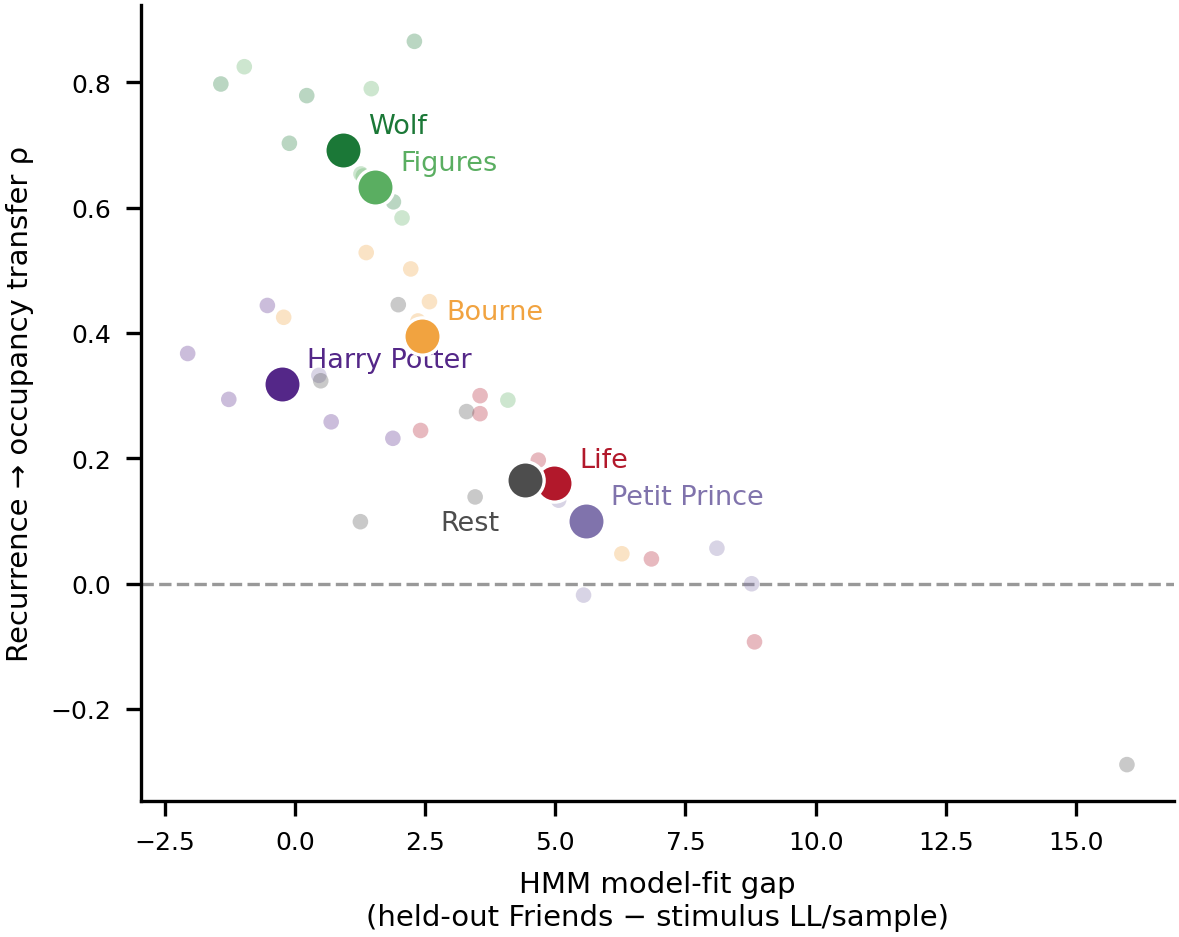
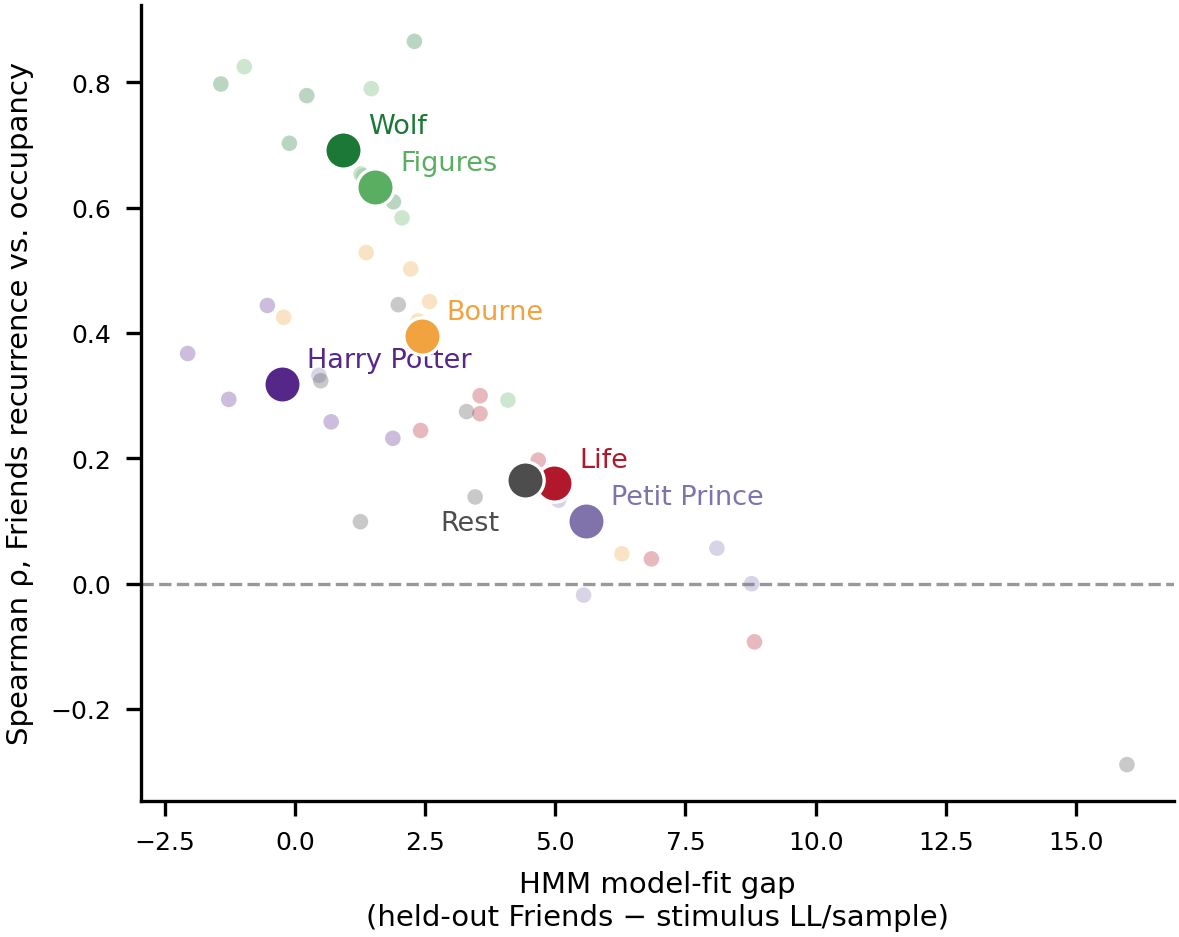
Figure 4B: observed correlations against their phase-randomized nulls (Movie10, Harry Potter, Petit Prince); relabel Figure S8B (#47)
Panel B of Figure 4 now draws, for Movie10 (six participants), Harry Potter and Le Petit Prince (five each), each participant's 10,000 phase-randomized surrogate correlations as a ridge on one shared axis, with the observed correlation between Friends recurrence and mean occupancy as a tick and the row's Δρ and empirical p beside it. The key is a separate file. Before drawing, the panel checks each null summary against the cross-stimulus summary, the draw files against their summaries, the missing-participant records and the row counts, and that every value lies in the plotted range. The previous Panel B (raw correlation by film, Harry Potter and Petit Prince, against zero) is removed; Figure S8B plots each film's correlation against the HMM fit gap.

Figure S8B's y-axis now reads 'Spearman ρ, Friends recurrence vs. occupancy', and its PNG is re-exported. The Figure S13 and Table S2 text no longer says Harry Potter and Petit Prince have too few runs for the null; Table S2 gives where each of their observed correlations sits against its null, by z. The README's Figure 4 row lists the inputs.

Changed region(s): [[0.0, 0.0619, 0.0305, 0.8047]]

diff --git a/script/fig_F4_cross_stimulus_transfer.py b/script/fig_F4_cross_stimulus_transfer.py
@@ -2,12 +2,17 @@
 
 One marimo notebook per figure (see `2026-05-24_manuscript_version_scope.md`).
 Panels are per-cell, saved as separate .png + .svg mini-figures for manual
-assembly. No on-figure panel labels, no titles, no subject-ID tick labels.
+assembly. No on-figure panel labels, no titles, no subject-ID tick labels
+(subjects are named by in-panel tags, as in panels A and B).
 
-R5 claim (reframed 2026-06-12): a state's recurrence rank in Friends predicts
-out-of-stimulus occupancy most clearly during audiovisual film (Movie10), with
-weaker and more variable transfer for reduced-modality reading (Harry Potter)
-and listening (Petit Prince).
+R5 claim: a state's recurrence rank in Friends predicts its mean occupancy
+during audiovisual film (Movie10) in every participant, above a phase-randomized
+null that preserves each PCA component's power spectrum and variance and the
+cross-component covariance. The null reproduces most of the raw correlation, so
+the claim is the margin above the null, not the raw ρ. With the same null on
+Harry Potter (7 runs) and Petit Prince (16-18 runs), the observed ρ sits above
+its null in one and two participants, near or at it in most others, and below it
+in two Harry Potter participants (z -2.41 and -3.22).
 
 Rest placement (decided 2026-08-17): supplementary ONLY — rest appears in
 fig_S08, not in this figure. Rationale: rest transfer is descriptive only (no
@@ -22,20 +27,27 @@ The within-Movie10 spread is reported descriptively and not attributed to
 content. The presence and fit diagnostics live in the supplementary
 cross-stimulus validity figure.
 
-Panel plan (chart families distinct within the figure). Filenames carry the
-panel letter; the user arranges the composite.
+Panel plan (chart families distinct within the figure, and B's family is used
+in no other main figure: point-based 1D is already in Figures 1 and 3). Filenames
+carry the panel letter; the user arranges the composite.
 
 | Panel | Content | Chart family | Source |
 |---|---|---|---|
-| A | Per-subject recurrence→FO scatter, 2×3 small multiples (Movie10; x=Friends recurrence, y=mean M10 FO; subject = marker shape + OLS line + per-subject ρ). Dots colored by R2 taxonomy category (Fig 2 colors). Movie10 = the strongest audiovisual transfer case in B. | scatter (small multiples) | m10_04 fractional_occupancy.pkl + 05a recurrence + 05e_a4 state_flags |
-| B | Transfer-ρ by condition (single strip; all active states). x = 4 Movie10 films + Harry Potter + Petit Prince; per-subject markers (shape = subject), dark cohort-mean line over films + ticks for HP/PP. Transfer clearest for audiovisual film, weaker/variable for reduced-modality stimuli; within-film spread descriptive (fit-confounded), NOT a content axis. Rest is supplementary-only (fig_S08). | point-1D strip | m10 A2_per_type + hp/pp A1 |
+| A | Per-subject recurrence→FO scatter, 2×3 small multiples (Movie10; x=Friends recurrence, y=mean M10 FO; subject = marker shape + OLS line + per-subject ρ). Dots colored by R2 taxonomy category (Fig 2 colors). | scatter (small multiples) | m10_04 fractional_occupancy.pkl + 05a recurrence + 05e_a4 state_flags |
+| B | Observed vs phase-randomized null, by stimulus (Movie10, Harry Potter, Petit Prince; one ridge per subject, all active states). Grey ridge = histogram of 10,000 null draws on shared bins, each scaled to the same height; dark tick = observed ρ (for Movie10, the value panel A annotates); Δρ (observed minus null mean) annotated per row. Wide, same width as A. | distribution (ridge) | m10/hp/pp A1 + sm_rel_r5_phase_null summaries + null_draws.npy |
 
-A `fig4_taxonomy_legend` file gives the 5-category color key for Panel A.
+A `fig4_taxonomy_legend` file gives the 5-category color key for Panel A, and
+`fig4_B_legend` the observed / null key for Panel B.
+
+Panel B keeps the stimuli of the raw-ρ-by-condition strip it replaced, with
+each set against its own null in place of zero. The four Movie10 films are
+pooled, since the null is computed over all 61 Movie10 runs; fig_S08 B plots
+the per-film ρ against the HMM fit gap.
 
 Modalities (verified against Methods draft): Movie10 = audiovisual films; Harry
 Potter = word-by-word RSVP reading (visual-only, no audio); Petit Prince =
-audiobook (audio-only, no visual). sub-04 has no HP/PP data, so HP/PP markers are
-absent for sub-04 in B.
+audiobook (audio-only, no visual). sub-04 has no HP/PP data, so the HP and PP
+groups in B have five rows.
 
 The presence donut grid and the validity diagnostics (PCA transfer R² uniform
 ~0.95; HMM LL gap uneven, ρ↔fit relationship with the HP outlier) move to the
@@ -47,9 +59,15 @@ Source-truth audit (reproduced from raw arrays):
     Spearman p<0.05), HP 0.232–0.444 (2/5), PP −0.018–0.332 (1/5);
     sub-04 has no HP/PP data. These p-values are descriptive per-subject
     flags, not cohort-level or multiplicity-corrected inference.
-  * Per-condition mean ρ: wolf 0.69, figures 0.63, bourne 0.40, life 0.16,
-    HP 0.32, PP 0.10. Cross-modality ordering (HP > Life > PP) contradicts a
-    content account; within-M10 spread tracks LL-fit gap (0.92/1.54/2.43/4.98).
+  * Per-condition mean ρ (fig_S08 B): wolf 0.69, figures 0.63, bourne 0.40,
+    life 0.16, HP 0.32, PP 0.10. Cross-modality ordering (HP > Life > PP)
+    contradicts a content account; within-M10 spread tracks LL-fit gap
+    (0.92/1.54/2.43/4.98).
+  * Panel B (2026-10-28): each null summary's observed ρ equals the
+    cross-stimulus summary's A1 ρ for all 16 subject x stimulus cells; Δρ
+    M10 +0.07 to +0.22 (z 5.97 to 15.62, every p at the 10,000-draw floor),
+    HP -0.08 to +0.09 (z -3.22 to +2.77), PP +0.003 to +0.19 (z +0.11 to
+    +9.08; sub-05's +9.08 is against a null below zero).
 
 Run:
     marimo edit script/fig_F4_cross_stimulus_transfer.py
@@ -120,6 +138,14 @@ def config(Path, os):
     # defines Friends-active states.
     PRESENCE_FO = 0.02
 
+    # Phase-randomized nulls (sm_rel_r5_phase_null, supplements branch): Movie10
+    # at the top level, the other stimuli in a subfolder named for each.
+    NULL_ROOT = SCRATCH_DIR / "output" / "sm_rel_r5_phase_null"
+    NULL_SUBDIR = {"m10": "", "hp": "harrypotter", "pp": "petitprince"}
+
+    def null_dir(stim, sub):
+        return NULL_ROOT / NULL_SUBDIR[stim] / PARCELLATION / sub / VT
+
     def xstim_dir(stim):
         return SCRATCH_DIR / "output" / f"{stim}_05_cross_validation" / PARCELLATION
 
@@ -129,7 +155,7 @@ def config(Path, os):
     return (
         SCRATCH_DIR, PARCELLATION, VT, SUBJECTS, EXEMPLAR, STIMULI,
         RECUR_DIR, FLAGS_DIR, M10_DEC_DIR, HP_DEC_DIR, PP_DEC_DIR,
-        PRESENCE_FO, xstim_dir, OUT_F4,
+        PRESENCE_FO, null_dir, xstim_dir, OUT_F4,
     )
 
 
@@ -243,18 +269,17 @@ def panel_A_per_subject_scatter(
     One subplot per subject (shared x and y axes for comparability): x = Friends
     recurrence score (05a), y = mean Movie10 fractional occupancy across runs
     (m10_04), one point per Friends-active state. Each subject keeps its own
-    marker shape (SUBJECT_MARKERS - consistent with the transfer-ρ panel) and a
+    marker shape (SUBJECT_MARKERS, as in Figures 1 and 3) and a
     red OLS guide line; the per-subject Spearman ρ (asserted against the summary
     JSON) is annotated in-panel without a significance marker.
 
-    Dot fill = R2 taxonomy category (same colors as Figure 2), showing that the
-    Movie10 is the strongest audiovisual transfer case quantified in panel B;
-    the repertoire-presence view and the validity diagnostics live in the
-    supplementary cross-stimulus figure.
+    Dot fill = R2 taxonomy category (same colors as Figure 2). Panel B sets
+    each ρ against its phase-randomized null; the repertoire-presence view and
+    the validity diagnostics live in the supplementary cross-stimulus figure.
 
     Recurrence and occupancy are both within-subject quantities, so each panel's
     ρ is the correct per-subject statistic; no pooled correlation is drawn.
-    Width matches the transfer-ρ panel so the two stack as one figure column.
+    Width matches panel B so the two stack as one figure column.
     """
     _fig, _axes = plt.subplots(2, 3, figsize=(6.7, 4.25), sharex=True, sharey=True)
     _axes = _axes.ravel()
@@ -306,97 +331,149 @@ def panel_A_per_subject_scatter(
 
 
 @app.cell
-def panel_B_transfer_by_condition(
-    SUBJECTS, summaries, OUT_F4, np, plt,
-    SUBJECT_NEUTRAL, SUBJECT_MARKERS,
+def panel_B_observed_vs_null(
+    SUBJECTS, STIMULI, null_dir, summaries, OUT_F4, json, np, plt, SUBJECT_NEUTRAL,
 ):
-    """Panel B - recurrence→occupancy transfer ρ by condition, grouped by stimulus type.
+    """Panel B - observed ρ against its phase-randomized null, by stimulus.
 
-    A frozen Friends-trained state model transfers most strongly to audiovisual
-    film (Movie10) and weakly / variably to reduced-modality stimuli -
-    visual-only word-by-word reading (Harry Potter) and audio-only listening
-    (Petit Prince).
+    Three groups of rows on one shared ρ axis: Movie10 (6 subjects), Harry
+    Potter and Petit Prince (5 each; sub-04 has no data for either), subjects in
+    order within a group. Each ridge is the histogram of the subject's 10,000
+    phase-randomized surrogate ρ values for that stimulus on one shared set of
+    bins, scaled so every ridge has the same peak height: only the location and
+    spread of the null carry information, as in the supplementary
+    null-distribution figure. The dark tick is the observed ρ (for Movie10, the
+    value panel A annotates), and each row is tagged with its subject,
+    Δρ = observed - null mean (three decimals, so near-zero values stay
+    readable) and the empirical p, (k + 1) / (10,000 + 1) for k null draws at or
+    above the observed ρ (its floor 1/10,001 is shown as p < 0.001). A dashed
+    line marks ρ = 0. For Petit Prince
+    sub-05 the null sits well below zero and the observed ρ near zero, so its
+    margin is not a positive correlation. Subject identity is carried by the row and its
+    tag, so the tick does not repeat it with a marker shape.
 
-    Conditions are grouped by stimulus type, not ordered as a content axis. The
-    spread across the four Movie10 films is shown descriptively; it co-varies
-    with HMM model fit - see the supplementary cross-stimulus validity figure -
-    so it is NOT attributed to narrative content. Note that the reduced-modality
-    conditions do not isolate narrative content because they also differ in
-    modality, timing, language, run structure, and model fit.
+    The null randomizes the phases of the stimulus's PC scores: each run gets one
+    random phase vector, shared across components. It keeps each component's
+    power spectrum and variance, the cross-component covariance, and the run
+    count and lengths, and destroys stimulus-locked timing and higher-order
+    temporal structure. Harry Potter has 7 runs per subject and Petit Prince
+    16-18, against 61 for Movie10.
 
-    Per-subject markers (shape = subject, as in panel A; single neutral color).
-    Cohort mean: dark line over the Movie10 films, dark ticks for HP and PP.
-    sub-04 lacks HP/PP, so only 5 markers appear in those groups.
-
-    Rest is supplementary-only (fig_S08; see the module docstring's placement
-    note): no surrogate null was run for rest, and raw ρ's covariance floor
-    means a Rest column would not read as a gradient endpoint.
+    Checks, per subject and stimulus: the null summary's observed ρ equals the
+    cross-stimulus summary's; the draw file holds the 10,000 draws the caption
+    states, with the summary's mean and 2.5/97.5 percentiles; a subject is
+    missing only where the cross-stimulus summary is missing too; and every draw
+    and observed value lies inside the plotted range.
     """
-    _films = [("wolf", "Wolf of\nWall St."),
-              ("figures", "Hidden\nFigures"),
-              ("bourne", "Bourne"),
-              ("life", "Life")]
-    _xlabels = [lab for _, lab in _films] + ["Harry\nPotter", "Petit\nPrince"]
-    _n_x = len(_xlabels)
-    _rng = np.random.default_rng(20260526)
-
-    def _cond_rho(_sub, _xi):
-        if _xi < len(_films):
-            return summaries["m10"][_sub]["A2_per_type"][_films[_xi][0]]["spearman_rho"]
-        _stim = "hp" if _xi == len(_films) else "pp"
-        _d = summaries[_stim][_sub]
-        return None if _d is None else _d["A1_recurrence_correlation"]["spearman_rho"]
-
-    _fig, _ax = plt.subplots(figsize=(6.7, 3.95))
-    _mean_color = "#333333"
-
-    # Dividers between the three stimulus-type groups (no causal continuum).
-    for _d in (len(_films) - 0.5, len(_films) + 0.5):
-        _ax.axvline(_d, color="#BBBBBB", lw=1.0, ls="--", zorder=1)
-
-    # Per-subject markers (neutral; subject = shape).
-    for _sub in SUBJECTS:
-        for _xi in range(_n_x):
-            _v = _cond_rho(_sub, _xi)
-            if _v is None:
+    _x_min, _x_max = -0.30, 0.88
+    _rows = []                                  # (stim label, sub, rho, null mean, draws)
+    for _stim, _label in STIMULI:
+        for _sub in SUBJECTS:
+            _dir = null_dir(_stim, _sub)
+            if summaries[_stim][_sub] is None:
+                _skip = _dir / "skipped.json"
+                assert _skip.exists() and json.loads(_skip.read_text()).get("skipped") is True, (
+                    f"{_stim} {_sub}: no cross-stimulus data, and no skip record")
+                assert not (_dir / "r5_phase_null_summary.json").exists(), (
+                    f"{_stim} {_sub}: a null summary but no cross-stimulus summary")
                 continue
-            _jit = _rng.uniform(-0.12, 0.12)
-            _ax.scatter(
-                _xi + _jit, _v, s=30, color=SUBJECT_NEUTRAL, alpha=0.55,
-                marker=SUBJECT_MARKERS[_sub], edgecolor="white",
-                linewidth=0.4, zorder=3,
+            with open(_dir / "r5_phase_null_summary.json") as _f:
+                _n = json.load(_f)
+            _draws = np.load(_dir / "null_draws.npy")
+            _rho = _n["observed"]["rho"]
+            _pub = summaries[_stim][_sub]["A1_recurrence_correlation"]["spearman_rho"]
+            assert abs(_rho - _pub) < 1e-3, (
+                f"{_stim} {_sub}: null-summary ρ {_rho:.4f} != cross-stimulus summary {_pub:.4f}"
             )
+            assert _draws.shape == (10000,) == (_n["null"]["n_draws"],), (
+                f"{_stim} {_sub}: {_draws.shape} draws, summary says {_n['null']['n_draws']}"
+            )
+            for _key, _val in (("mean", _draws.mean()),
+                               ("pct2.5", np.percentile(_draws, 2.5)),
+                               ("pct97.5", np.percentile(_draws, 97.5))):
+                assert abs(_val - _n["null"][_key]) < 1e-9, (
+                    f"{_stim} {_sub}: draws {_key} {_val:.6f} != summary {_n['null'][_key]:.6f}"
+                )
+            _lo, _hi = min(_draws.min(), _rho), max(_draws.max(), _rho)
+            assert _x_min <= _lo and _hi <= _x_max, (
+                f"{_stim} {_sub}: values [{_lo:.3f}, {_hi:.3f}] outside the plotted range"
+            )
+            _rows.append((_label, _sub, _rho, _n["null"]["mean"], _draws,
+                          _n["p_empirical"]))
+            print(f"  {_label:12s} {_sub}: observed {_rho:+.3f}  null mean "
+                  f"{_n['null']['mean']:+.3f} [{_n['null']['pct2.5']:+.3f}, "
+                  f"{_n['null']['pct97.5']:+.3f}]  Δρ {_rho - _n['null']['mean']:+.3f}  "
+                  f"p {_n['p_empirical']:.4f}")
 
-    # Cohort means: dark line over M10 films, dark ticks for HP/PP
-    _m10_means = [float(np.mean([_cond_rho(_s, _xi) for _s in SUBJECTS]))
-                  for _xi in range(len(_films))]
-    _ax.plot(range(len(_films)), _m10_means, color=_mean_color, lw=2.0, zorder=5,
-             label="Cohort mean")
-    for _xi in (len(_films), len(_films) + 1):
-        _vals = [_cond_rho(_s, _xi) for _s in SUBJECTS if _cond_rho(_s, _xi) is not None]
-        _mean = float(np.mean(_vals))
-        _ax.plot([_xi - 0.22, _xi + 0.22], [_mean, _mean], color=_mean_color,
-                 lw=2.0, zorder=5)
-        print(f"  cond {_xlabels[_xi].split(chr(10))[0]}: mean ρ={_mean:.3f} (n={len(_vals)})")
-    for _xi in range(len(_films)):
-        print(f"  film {_films[_xi][0]}: mean ρ={_m10_means[_xi]:.3f}")
+    _n_rows = {_label: sum(_r[0] == _label for _r in _rows) for _, _label in STIMULI}
+    assert _n_rows == {"Movie10": 6, "Harry Potter": 5, "Petit Prince": 5}, _n_rows
+    _bins = np.linspace(_x_min, _x_max, 237)    # 0.005-wide, shared by all rows
+    _height = 0.8                               # ridge peak, in row units
+    _gap = 0.7                                  # extra space between stimulus groups
+    _ys, _y, _prev = [], 0.0, None
+    for _label, *_rest in _rows:
+        if _prev is not None:
+            _y -= 1.0 + (_gap if _label != _prev else 0.0)
+        _ys.append(_y)
+        _prev = _label
 
-    _ax.axhline(0, color="#999999", lw=1.0, ls="--", zorder=1)
+    _fig, _ax = plt.subplots(figsize=(6.06, 4.6))   # renders as wide as panel A (6.5 in)
+    def _p_text(_p):
+        if _p < 0.001:
+            return "p < 0.001"
+        if _p > 0.99:
+            return "p > 0.99"
+        return f"p = {_p:.3f}" if _p < 0.1 else f"p = {_p:.2f}"
 
-    _ax.set_xticks(range(_n_x))
-    _ax.set_xticklabels(_xlabels, fontsize=6.5)
-    _ax.set_ylabel("Recurrence → occupancy transfer ρ", fontsize=7)
-    _ax.set_xlim(-0.5, _n_x - 0.5)
-    _ax.tick_params(axis="y", labelsize=6)
-    _ax.tick_params(axis="x", length=0)
+    for (_label, _sub, _rho, _mu, _draws, _p), _y0 in zip(_rows, _ys):
+        _counts, _ = np.histogram(_draws, bins=_bins)
+        _ax.stairs(_y0 + _height * _counts / _counts.max(), _bins, baseline=_y0,
+                   fill=True, color="#BBBBBB", lw=0, zorder=2)
+        _ax.plot([_x_min, _x_max], [_y0, _y0], color="#DDDDDD", lw=0.6, zorder=1)
+        _ax.plot([_rho, _rho], [_y0, _y0 + 0.55], color=SUBJECT_NEUTRAL, lw=1.6,
+                 solid_capstyle="butt", zorder=4)
+        _d = f"{_rho - _mu:+.3f}".replace("-", "\u2212")
+        _ax.text(_x_max + 0.005, _y0 + 0.2, f"{_sub}   Δρ = {_d}   {_p_text(_p)}",
+                 ha="left", va="center", fontsize=6.5)
+    for _label in dict.fromkeys(_r[0] for _r in _rows):
+        _yy = [_y0 for _r, _y0 in zip(_rows, _ys) if _r[0] == _label]
+        _ax.text(_x_min - 0.02, (max(_yy) + min(_yy) + _height) / 2, _label,
+                 ha="right", va="center", fontsize=7)
+    _ax.axvline(0, color="#999999", lw=0.8, ls="--", zorder=1)
+
+    _ax.set_xlim(_x_min, _x_max)
+    _ax.set_ylim(min(_ys) - 0.15, max(_ys) + _height + 0.1)
+    _ax.set_yticks([])
+    _ax.spines["left"].set_visible(False)
     for _s in ("top", "right"):
         _ax.spines[_s].set_visible(False)
-    _h_mean = plt.Line2D([], [], color=_mean_color, lw=2.0, label="Cohort mean")
-    _ax.legend(handles=[_h_mean], loc="upper right",
-               frameon=False, fontsize=6.5, handletextpad=0.4)
+    _ax.tick_params(axis="x", labelsize=6)
+    _ax.set_xlabel("Spearman ρ, Friends recurrence vs. occupancy", fontsize=7)
 
-    _fig.subplots_adjust(left=0.10, right=0.98, bottom=0.13, top=0.95)
-    _stem = OUT_F4 / "fig4_B_transfer_by_condition"
+    _fig.subplots_adjust(left=0.13, right=0.84, bottom=0.09, top=0.99)
+    _stem = OUT_F4 / "fig4_B_observed_vs_null"
+    _fig.savefig(f"{_stem}.png", bbox_inches="tight", pad_inches=0.02, dpi=300)
+    _fig.savefig(f"{_stem}.svg", bbox_inches="tight", pad_inches=0.02)
+    print(f"saved: {_stem.name}.png (+ .svg)")
+    plt.close(_fig)
+    return
+
+
+@app.cell
+def panel_B_legend(OUT_F4, plt, SUBJECT_NEUTRAL):
+    """Observed / null key for Panel B (separate mini-file, one row)."""
+    from matplotlib.patches import Patch
+
+    _handles = [
+        plt.Line2D([], [], color=SUBJECT_NEUTRAL, lw=1.6, marker="|", markersize=9,
+                   markeredgewidth=1.6, linestyle="none", label="Observed ρ"),
+        Patch(facecolor="#BBBBBB", edgecolor="none",
+              label="Phase-randomized null, 10,000 draws"),
+    ]
+    _fig = plt.figure(figsize=(6.7, 0.35))
+    _fig.legend(handles=_handles, loc="center", frameon=False, fontsize=6.5,
+                ncol=2, handletextpad=0.5, columnspacing=1.6)
+    _stem = OUT_F4 / "fig4_B_legend"
     _fig.savefig(f"{_stem}.png", bbox_inches="tight", pad_inches=0.02, dpi=300)
     _fig.savefig(f"{_stem}.svg", bbox_inches="tight", pad_inches=0.02)
     print(f"saved: {_stem.name}.png (+ .svg)")

diff --git a/script/fig_S08_cross_stimulus_validity.py b/script/fig_S08_cross_stimulus_validity.py
@@ -267,7 +267,7 @@ def panel_B_fit_vs_transfer(SUBJECTS, XVAL, DEC, VT, LL_FILE, FILMS, OUT,
             print(f"  {_c}: mean gap={_mx:.2f} rho={_my:.3f}")
     _ax.axhline(0, color="#999999", lw=0.8, ls="--", zorder=1)
     _ax.set_xlabel("HMM model-fit gap\n(held-out Friends − stimulus LL/sample)", fontsize=7)
-    _ax.set_ylabel("Recurrence → occupancy transfer ρ", fontsize=7)
+    _ax.set_ylabel("Spearman ρ, Friends recurrence vs. occupancy", fontsize=7)
     _ax.tick_params(labelsize=6)
     for _s in ("top", "right"):
         _ax.spines[_s].set_visible(False)

diff --git a/docs/supplementary/README.md b/docs/supplementary/README.md
@@ -214,7 +214,7 @@ One panel per participant, labelled above the panel. The grey histogram is the d
 
 This figure shows the distributions that Table S2 tabulates. The observed correlation fell above the surrogate distribution in every participant (Δρ = +0.07 to +0.22; z = +5.97 to +15.62; 61 Movie10 runs and 10,000 draws per participant), while the null distributions themselves sat at substantial correlations: most of the raw correlation's magnitude is reproduced by surrogates that preserve each component's power spectrum and variance together with the cross-component covariance. Table S2 gives the per-participant values and the two limits on what the margin above the null can be attributed to.
 
-The test covers Movie10 only. Harry Potter (7 runs per participant) and Le Petit Prince (16–18 runs) contribute too few runs to support a per-run surrogate null.
+This figure shows Movie10; Figure 4B shows Movie10, Harry Potter and Le Petit Prince against their nulls.
 
 ---
 
@@ -315,7 +315,7 @@ The observed correlation exceeded the null in every participant at the 10,000-dr
 
 The margin has two limits. First, it is a distance above the null expectation, not an additive stimulus-specific component, because a Spearman correlation does not decompose additively. Second, because phase randomization destroys all phase-borne structure rather than stimulus-locking alone, exceeding the null rules out the preserved spectra and covariance as a *complete* account of the correlation, but does not by itself attribute the margin to stimulus-locked dynamics rather than to other phase-borne temporal structure.
 
-The test covers Movie10 only. Harry Potter (7 runs per participant) and Le Petit Prince (16–18 runs) contribute too few runs to support a per-run surrogate null, against 61 runs for Movie10.
+The table covers Movie10. The same null was run on Harry Potter (7 runs per participant) and Le Petit Prince (16–18 runs, against 61 for Movie10). For Harry Potter the observed correlation sits above its null in one participant (sub-05, z = +2.77), near it in two (z = −0.64 and +0.29) and below it in two (z = −2.41 and −3.22). For Le Petit Prince it sits above its null in two (sub-01, z = +2.24; sub-05, z = +9.08, where the null lies below zero and the observed correlation is near zero) and at it in three (z = 0.11–0.29). Figure 4B shows all three stimuli against their nulls; the findings document gives per-participant values.
 
 **Provenance.** Generated by `script/sm_rel_r5_phase_null.py` on the orphan `supplements` branch, deterministically seeded (draw *s* uses `numpy.random.default_rng(seed_base + s)` with `seed_base = 0`), so the table is reproducible. Per-participant values read from `$SCRATCH_DIR/output/sm_rel_r5_phase_null/atlas-4S156Parcels/<sub>/vt0.95/r5_phase_null_summary.json`. Each summary carries a faithfulness gate confirming the recomputed observed rho reproduces the published value (|delta| = 0 at tolerance 1e-12 in all six participants). Every range quoted in the main text (null mean rho, null share of observed, delta rho, and z) matches these files exactly.
 

diff --git a/README.md b/README.md
@@ -168,7 +168,7 @@ noted) before invoking a figure script.
 | **1** | `fig_F1_recurrence_gradient.py` | Continuous recurrence gradient across states (R1) | `05a`, `06a` |
 | **2** | `fig_F2_recurrence_sources.py` (Panels A–D); `fig_F2_network_participation.py` (batch Panel C); `fig_F2E_participant_umap.py` (Panel E and its supplementary panels; needs `uv sync --extra umap`) | Recurrence-screening categories + network participation; all participants' states in one embedding, with matched pairs between participants (R2) | `04`, `05a`, `05e`, `05h` |
 | **3** | `fig_F3_transition_structure.py` | Transition graph topology + FC–transition coupling (R3) | `04`, `05a`, `05e`, `05f`, `06a`, `06b`, `06e` |
-| **4** | `fig_F4_cross_stimulus_transfer.py` | Cross-stimulus recurrence transfer to Movie10/HP/PP (R5) | `04` decode, `05a`, `m10_`/`hp_`/`pp_05` |
+| **4** | `fig_F4_cross_stimulus_transfer.py` | Friends recurrence against Movie10 occupancy, and the Movie10, Harry Potter and Petit Prince correlations against their phase-randomized nulls (R5) | `m10_04`, `05a`, `05e`, `m10_`/`hp_`/`pp_05`, `sm_rel_r5_phase_null` (`supplements` branch) |
 | **5** | `fig_F5_within_friends.py` (lead) + `fig_F5_per_film_video.py` (Movie10 per-film panel) | Within-Friends representational depth + Movie10 per-film depth (R4b) | `08d`, `08e` |
 | **S1** | `fig_S01_recurring_state_surface_maps.py` | Cortical + subcortical surface maps of the top recurring states, per subject | `05a`, `05b` |
 | **S2** | `fig_S02_pca_loadings.py` | PCA loadings diagnostics (one representative subject) | `03b` |
